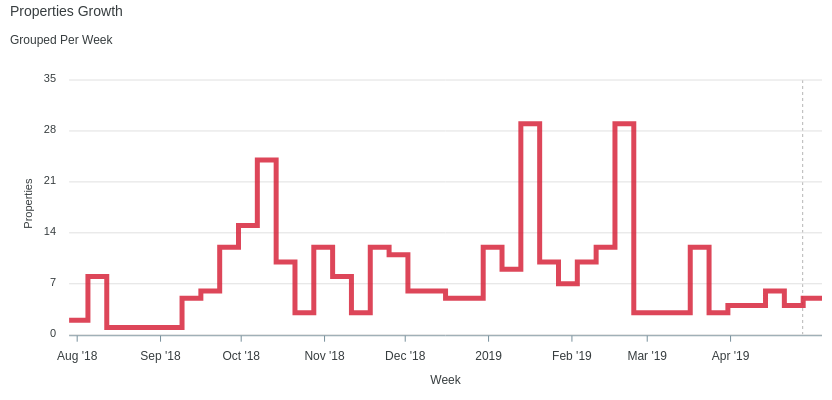
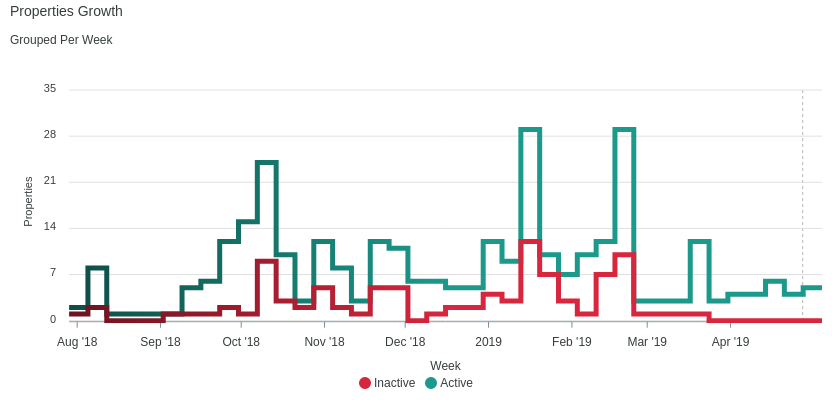
Change stepline chart example

diff --git a/README.md b/README.md
@@ -62,7 +62,7 @@ Example options used for cartesian charts:
 #### Stepline Chart
 
 ```erb
-<%= line_chart(total_series, {**options, theme: 'palette7', curve: 'stepline'}) %>
+<%= line_chart(series, {**options, theme: 'palette7', curve: 'stepline'}) %>
 ```
 ![Example Stepline Chart](images/stepline_chart.png)
 
